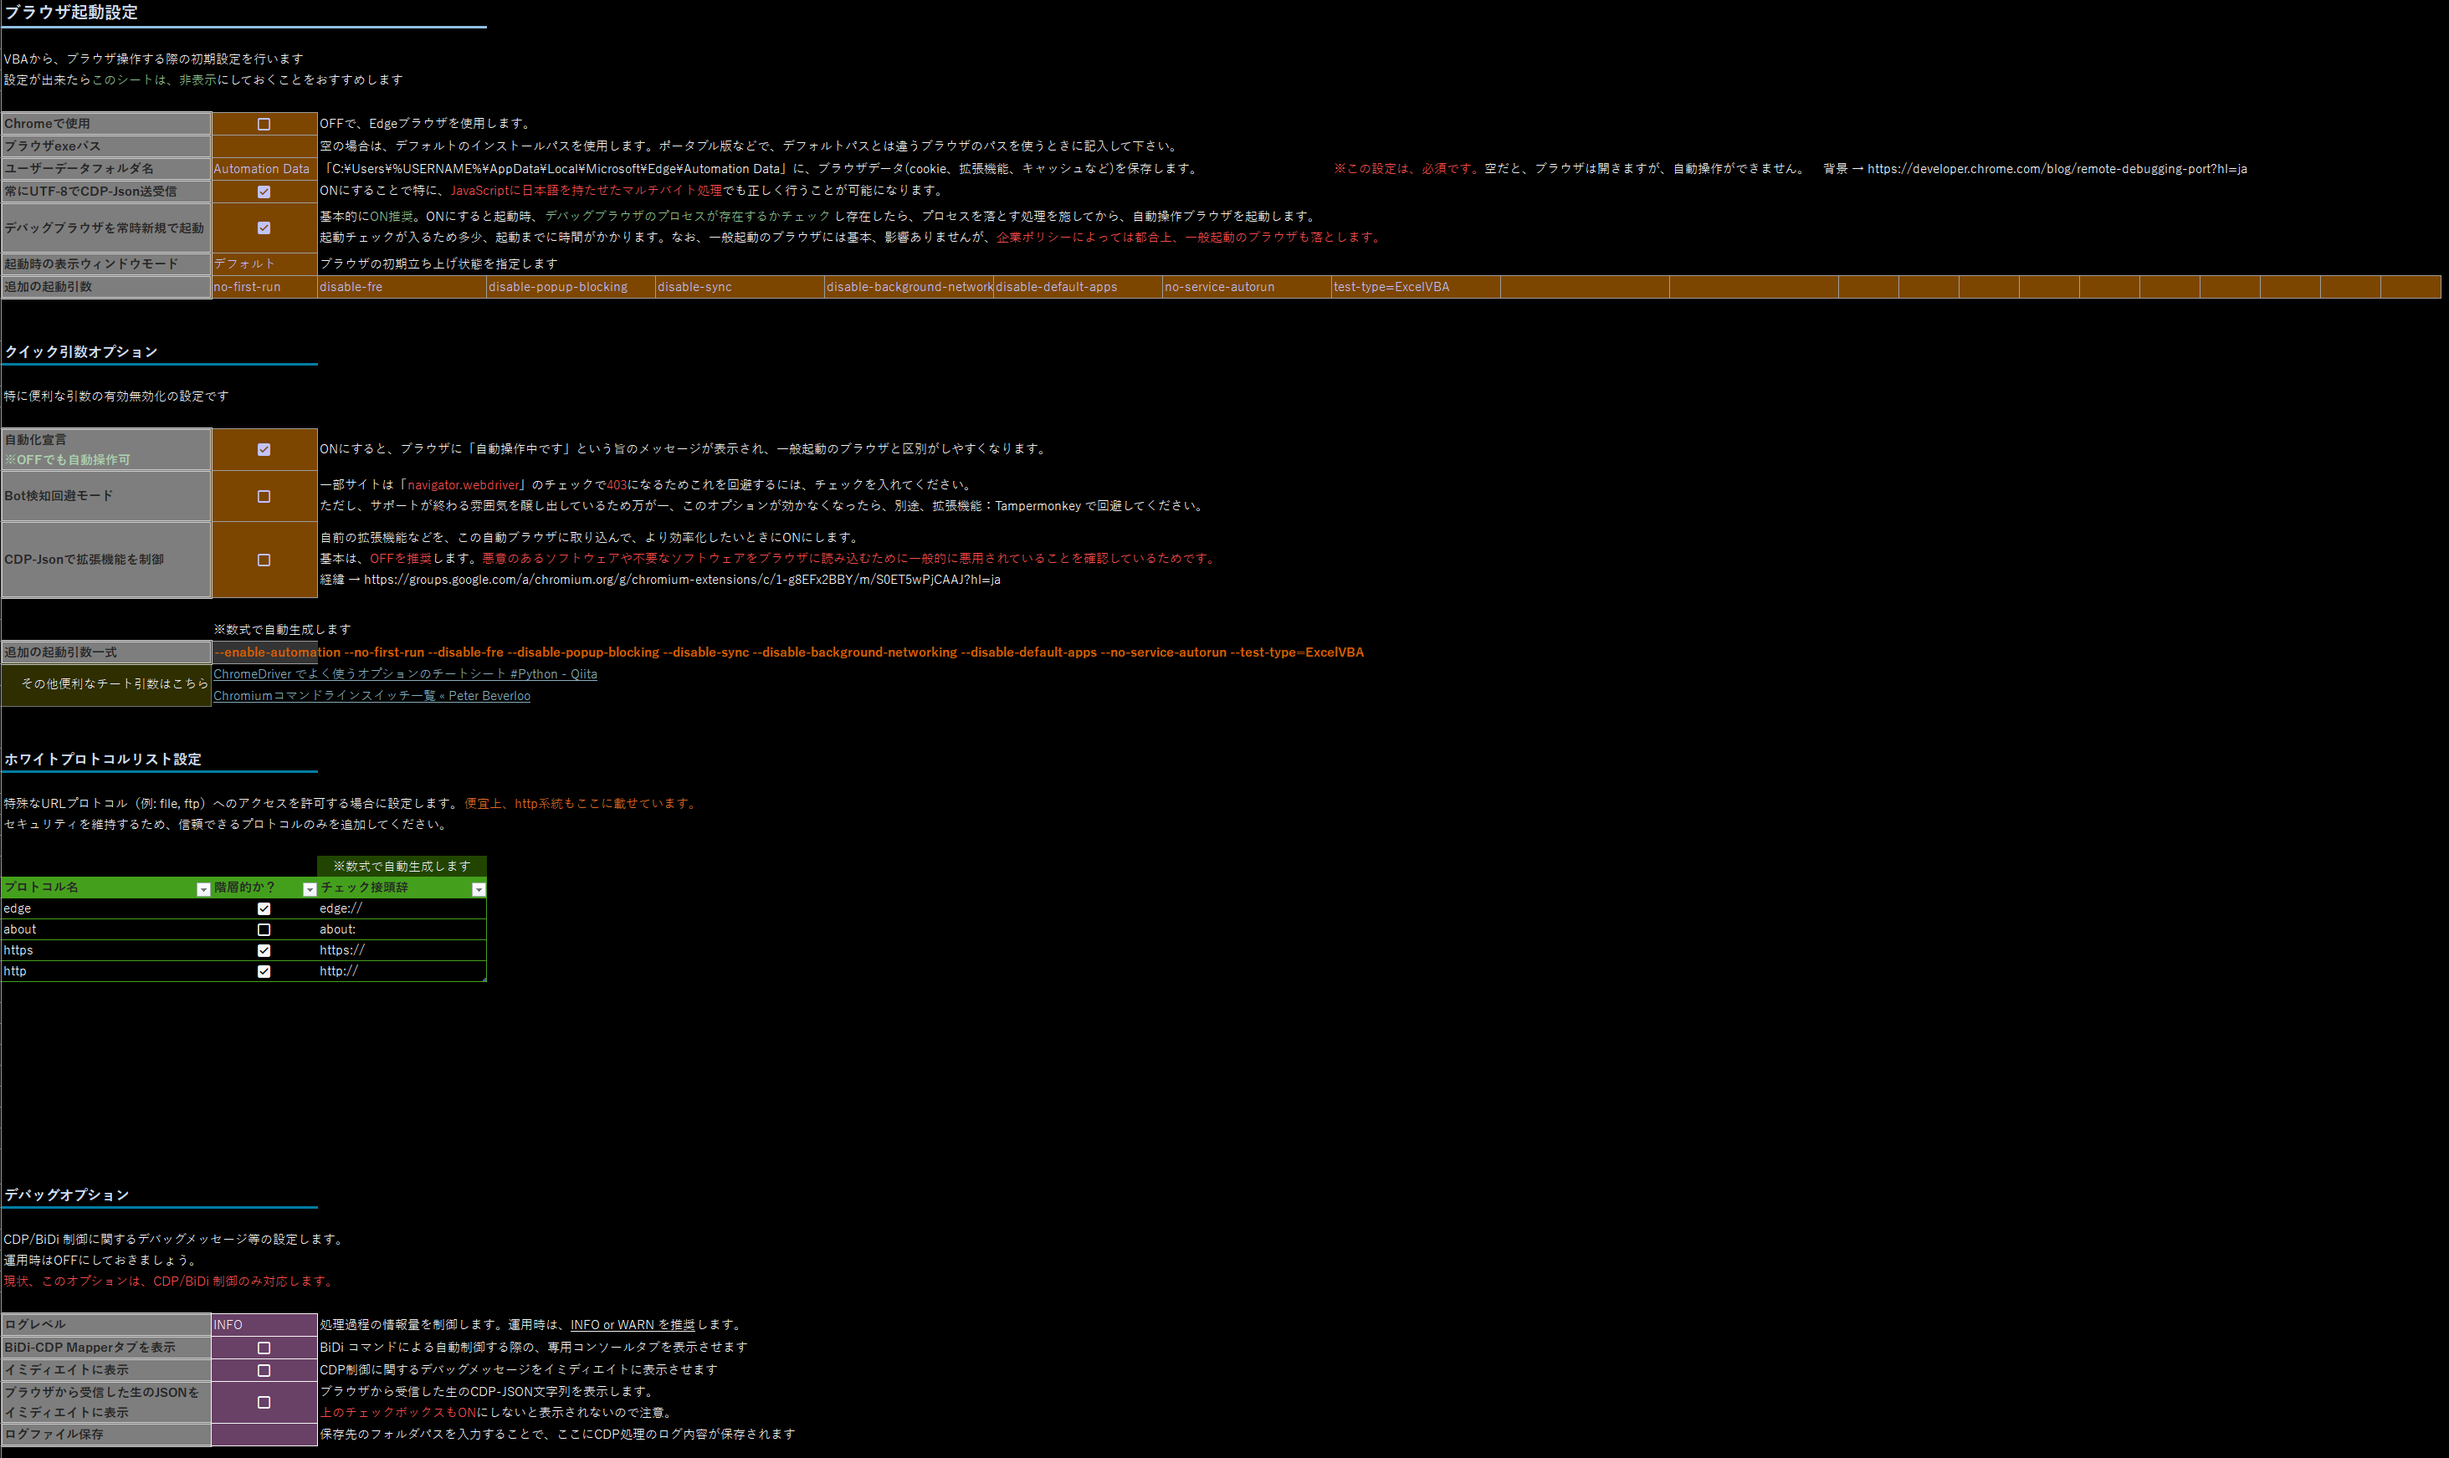
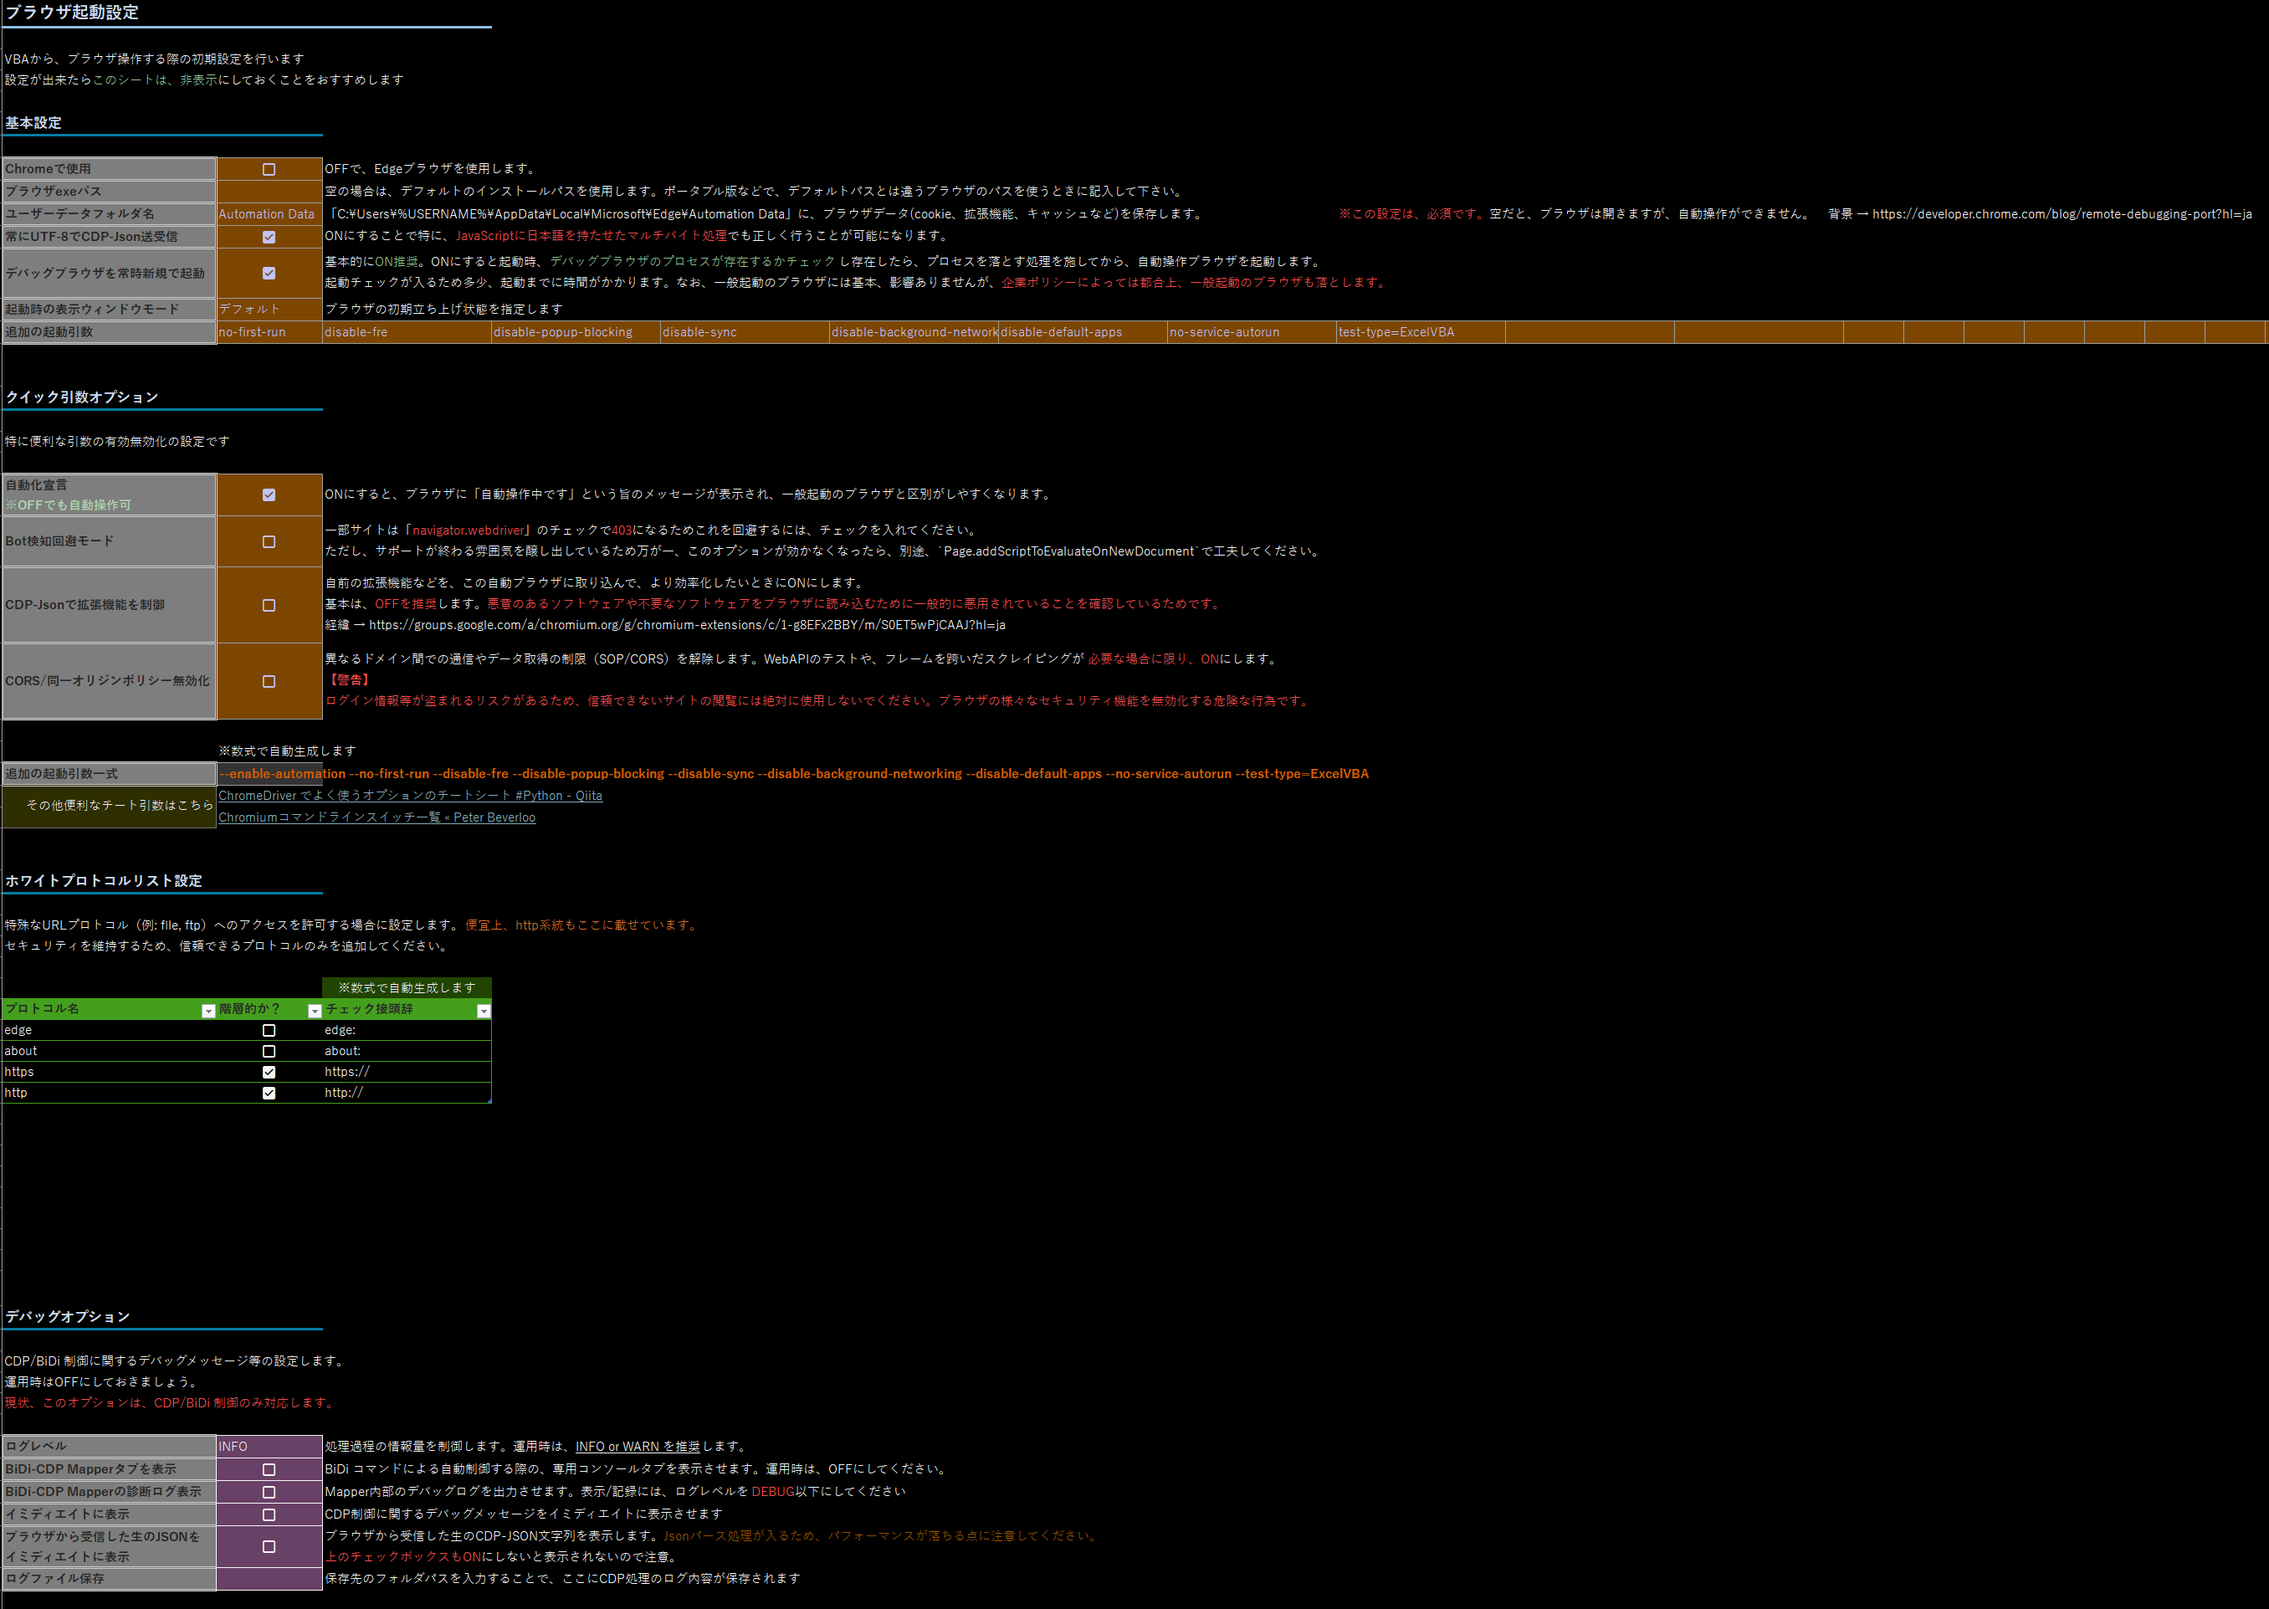
Update readme

diff --git a/README.md b/README.md
@@ -210,14 +210,15 @@ Excelは、ファイルを開く時に、まず、この「刻印」があるか
 
 ### VBA内部での起動引数について
 
-ブラウザを自動操作するための最低限の必須引数を記述してます。クラスモジュール`CDPBrowser`の154行目周辺にその引数が見受けられると思います。
+ブラウザを自動操作するための最低限の必須引数を記述してます。クラスモジュール`CDPBrowser`の350行目周辺にその引数が見受けられると思います。
 
 | 引数名                | 意味                                                                                                                                                                                                                                                                                                                                                                                                                                                 | 
 | --------------------- | ---------------------------------------------------------------------------------------------------------------------------------------------------------------------------------------------------------------------------------------------------------------------------------------------------------------------------------------------------------------------------------------------------------------------------------------------------- | 
 | remote-debugging-pipe | ブラウザの"本体プロセス"とは、"別のプロセス(Excel)"から、デバッグするように仕向けます。<br>通信方式は、パイプ通信です。「リモート」とありますが、同じPC内からしかアクセスできない仕様となっています。                                                                                                                                                                                                                                                | 
 | user-data-dir         | ブラウザのデータディレクトリ(Cookieや拡張機能、パスワード倉庫など)のフルパスを指定します。<br>通常は`C:\Users\%USERNAME%\AppData\Local\Microsoft\Edge\User Data`ですが、[デバッグ機能を悪用したCookie盗難対策](https://developer.chrome.com/blog/remote-debugging-port?hl=ja)により必ず、`User Data`以外のフォルダパスを指定するように義務付けられました。<br>このツールはデフォルトで、`Automation Data`として`User Data`と同じ階層のパスに作られます。 | 
 | homepage              | ブラウザ起動時の最初のURLを指定しますが余計な通信を抑えるため、`about:blank`で空白ページにしてます。<br>ただし、次項の`app`に任意のURLが渡されるとこれは、付与しなくなります。                                                                                                                                                                                                                                                                       | 
-| app                   | `start`メソッドの第2引数にあたります。ブラウザ起動時の最初のURLを指定したい場合は、ここを指定することになります。<br>ここにURLを渡して起動すると<br>・任意のURLへの変更不可<br>・タブ生成不可<br><br>といったユーザー側による自動化を妨げる行為をある程度防ぐことが可能です。ちょっとしたキオスクモードです。                                                                                                                                                                                                                                                     | 
+| app                   | `start`メソッドの第2引数にあたります。ブラウザ起動時の最初のURLを指定したい場合は、ここを指定することになります。<br>ここにURLを渡して起動すると<br>・任意のURLへの変更不可<br>・タブ生成不可<br><br>といったユーザー側による自動化を妨げる行為をある程度防ぐことが可能です。ちょっとしたキオスクモードです。                                                                                                                                        | 
+| KioskMode             | `start`メソッドの第6引数にあたります。UserForm にEdgeを埋め込む際にご利用ください。`fullscreen`推奨。詳細は[こちら](https://learn.microsoft.com/ja-jp/deployedge/microsoft-edge-configure-kiosk-mode)                                                                                                                                                                                                                                                | 
 
 ## ブラウザ起動方法について
 
